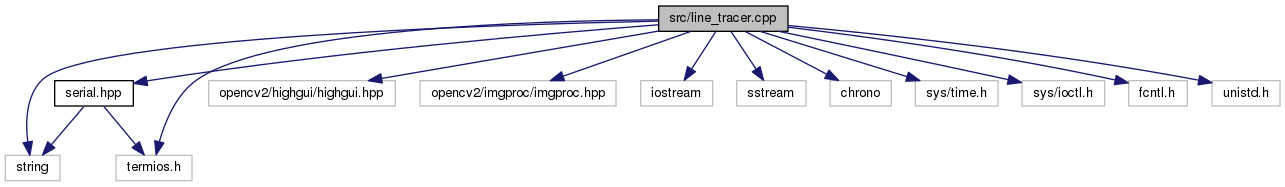
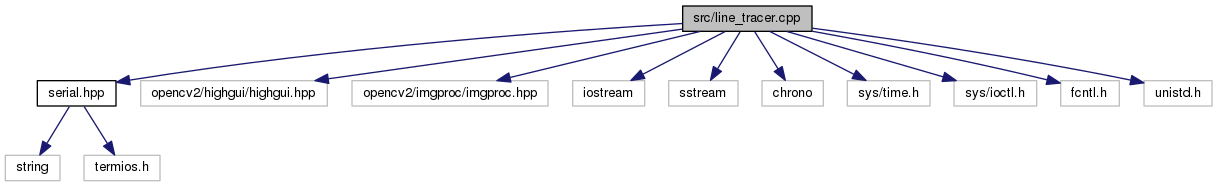
modify include files

diff --git a/docs/html/line__tracer_8cpp.html b/docs/html/line__tracer_8cpp.html
@@ -99,19 +99,17 @@ var searchBox = new SearchBox("searchBox", "search",false,'Search');
 <code>#include &quot;opencv2/imgproc/imgproc.hpp&quot;</code><br />
 <code>#include &lt;iostream&gt;</code><br />
 <code>#include &lt;sstream&gt;</code><br />
-<code>#include &lt;string&gt;</code><br />
 <code>#include &lt;chrono&gt;</code><br />
 <code>#include &lt;sys/time.h&gt;</code><br />
 <code>#include &lt;sys/ioctl.h&gt;</code><br />
 <code>#include &lt;fcntl.h&gt;</code><br />
-<code>#include &lt;termios.h&gt;</code><br />
 <code>#include &lt;unistd.h&gt;</code><br />
 </div><div class="textblock"><div class="dynheader">
 Include dependency graph for line_tracer.cpp:</div>
 <div class="dyncontent">
 <div class="center"><img src="line__tracer_8cpp__incl.png" border="0" usemap="#src_2line__tracer_8cpp" alt=""/></div>
 <map name="src_2line__tracer_8cpp" id="src_2line__tracer_8cpp">
-<area shape="rect" id="node2" href="serial_8hpp_source.html" title="serial.hpp" alt="" coords="55,80,133,107"/>
+<area shape="rect" id="node2" href="serial_8hpp_source.html" title="serial.hpp" alt="" coords="37,80,116,107"/>
 </map>
 </div>
 </div><table class="memberdecls">

diff --git a/docs/html/serial_8cpp.html b/docs/html/serial_8cpp.html
@@ -98,14 +98,13 @@ var searchBox = new SearchBox("searchBox", "search",false,'Search');
 <code>#include &lt;sys/stat.h&gt;</code><br />
 <code>#include &lt;sys/ioctl.h&gt;</code><br />
 <code>#include &lt;fcntl.h&gt;</code><br />
-<code>#include &lt;termios.h&gt;</code><br />
 <code>#include &lt;unistd.h&gt;</code><br />
 </div><div class="textblock"><div class="dynheader">
 Include dependency graph for serial.cpp:</div>
 <div class="dyncontent">
 <div class="center"><img src="serial_8cpp__incl.png" border="0" usemap="#src_2serial_8cpp" alt=""/></div>
 <map name="src_2serial_8cpp" id="src_2serial_8cpp">
-<area shape="rect" id="node2" href="serial_8hpp_source.html" title="serial.hpp" alt="" coords="5,80,84,107"/>
+<area shape="rect" id="node2" href="serial_8hpp_source.html" title="serial.hpp" alt="" coords="37,80,116,107"/>
 </map>
 </div>
 </div><a name="details" id="details"></a><h2 class="groupheader">Detailed Description</h2>

diff --git a/docs/latex/line__tracer_8cpp.tex b/docs/latex/line__tracer_8cpp.tex
@@ -10,12 +10,10 @@ Line trace programm.
 {\ttfamily \#include \char`\"{}opencv2/imgproc/imgproc.\+hpp\char`\"{}}\\*
 {\ttfamily \#include $<$iostream$>$}\\*
 {\ttfamily \#include $<$sstream$>$}\\*
-{\ttfamily \#include $<$string$>$}\\*
 {\ttfamily \#include $<$chrono$>$}\\*
 {\ttfamily \#include $<$sys/time.\+h$>$}\\*
 {\ttfamily \#include $<$sys/ioctl.\+h$>$}\\*
 {\ttfamily \#include $<$fcntl.\+h$>$}\\*
-{\ttfamily \#include $<$termios.\+h$>$}\\*
 {\ttfamily \#include $<$unistd.\+h$>$}\\*
 Include dependency graph for line\+\_\+tracer.\+cpp\+:
 \nopagebreak

diff --git a/src/line_tracer.cpp b/src/line_tracer.cpp
@@ -6,19 +6,16 @@
  */
 
 #include "serial.hpp"
-
 #include "opencv2/highgui/highgui.hpp"
 #include "opencv2/imgproc/imgproc.hpp"
 
 #include <iostream>
 #include <sstream>
-#include <string>
 #include <chrono>
 
 #include <sys/time.h>
 #include <sys/ioctl.h>
 #include <fcntl.h>
-#include <termios.h>
 #include <unistd.h>
 
 using namespace cv;

diff --git a/docs/latex/serial_8cpp.tex b/docs/latex/serial_8cpp.tex
@@ -12,7 +12,6 @@
 {\ttfamily \#include $<$sys/stat.\+h$>$}\\*
 {\ttfamily \#include $<$sys/ioctl.\+h$>$}\\*
 {\ttfamily \#include $<$fcntl.\+h$>$}\\*
-{\ttfamily \#include $<$termios.\+h$>$}\\*
 {\ttfamily \#include $<$unistd.\+h$>$}\\*
 Include dependency graph for serial.\+cpp\+:
 \nopagebreak

diff --git a/src/serial.cpp b/src/serial.cpp
@@ -14,7 +14,6 @@
 #include <sys/stat.h>
 #include <sys/ioctl.h>
 #include <fcntl.h>
-#include <termios.h>
 #include <unistd.h>
 
 /*
